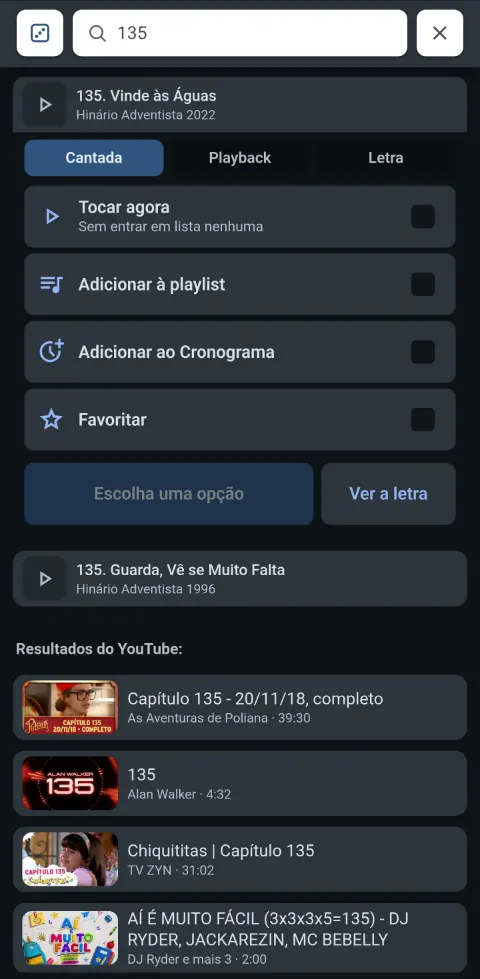
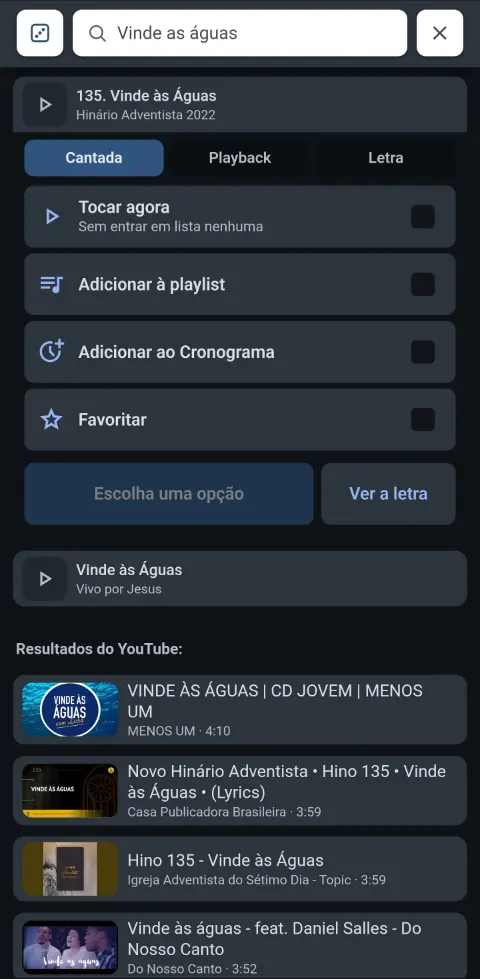
site: duas telas melhores, e o primeiro card deixa de encostar na borda
AS TELAS. "Escolha o destino" passa a ser a busca por "Vinde as águas": a
anterior era a busca por "135", e os resultados do YouTube dela eram um capítulo
de novela e uma faixa do Alan Walker — verdadeiros, e exatamente a impressão
errada de para que serve aquela busca. "No ar" passa a ser um Cronograma com
CINCO itens em ordem e o terceiro marcado em vermelho: a anterior tinha a lista
vazia, então o card que ilustra o Cronograma não mostrava cronograma nenhum. A
legenda foi junto — a nova mostra a capa no telão, não a letra, e prometer letra
numa imagem que não a tem é a legenda discordando da figura.

A BORDA, e a causa é medida: `scroll-snap-align: start` encaixa o item na borda
do PADDING BOX e COME o recuo. O primeiro card ficava colado na borda da tela e
o último respeitava os 18px — um vão em cada ponta, e nenhum igual ao outro.
`scroll-padding-inline` move a linha de encaixe para dentro; medido depois,
18px / 18px.

Só `site/`: sem versão a subir.

Claude-Session: https://claude.ai/code/session_01H59HjGPjSQM7SLdzua3s4W

diff --git a/site/index.html b/site/index.html
@@ -128,7 +128,16 @@
      na borda — e a faixa continua se recortando sozinha (`overflow-x`), sem
      empurrar a página para o lado. */
   @media (max-width:34rem) {
-    .telas { margin-inline:-1.15rem; padding-inline:1.15rem; }
+    .telas {
+      margin-inline:-1.15rem; padding-inline:1.15rem;
+      /* `scroll-padding` E NÃO SÓ `padding`, e isto foi MEDIDO: com
+         `scroll-snap-align: start`, o encaixe encosta o item na borda do PADDING
+         BOX e COME o recuo — o primeiro card ficava colado na borda da tela
+         enquanto o último respeitava os 18px, um vão em cada ponta e nenhum dos
+         dois igual ao outro. `scroll-padding-inline` move a linha de encaixe
+         para dentro, e aí as duas pontas medem o mesmo. */
+      scroll-padding-inline:1.15rem;
+    }
   }
   /* O `background` é o `--bg` do tema ESCURO do app: é a cor que o print tem nas
      bordas, e ela cobre o instante entre o espaço reservado e a imagem chegar. */
@@ -257,8 +266,8 @@
       </figure>
       <figure>
         <img src="telas/no-ar.webp" width="480" height="979" loading="lazy" decoding="async"
-             alt="O Cronograma com um hino marcado como no ar e a letra aparecendo na prévia do telão.">
-        <figcaption><b>No ar</b>A faixa toca e a letra acompanha sozinha no telão.</figcaption>
+             alt="O Cronograma com cinco itens em ordem e o terceiro marcado como no ar, em vermelho.">
+        <figcaption><b>No ar</b>O culto na ordem, e a faixa que está tocando marcada na lista.</figcaption>
       </figure>
       <figure>
         <img src="telas/biblia.webp" width="480" height="979" loading="lazy" decoding="async"
